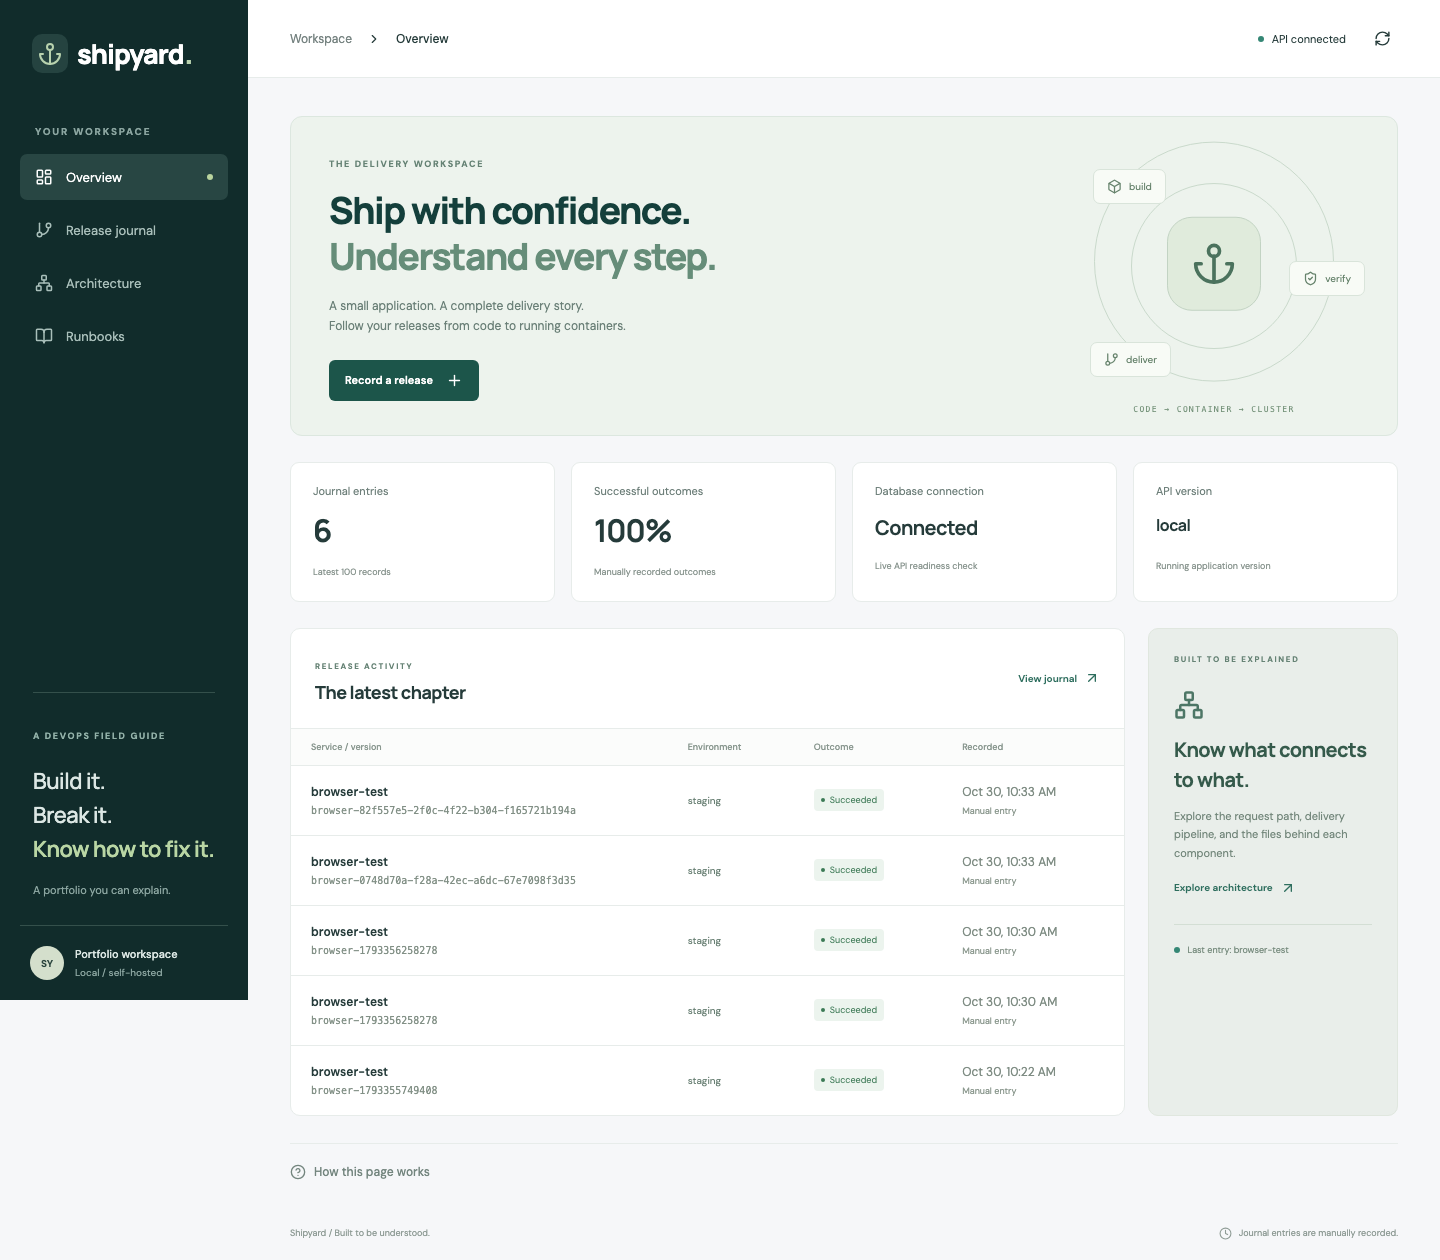
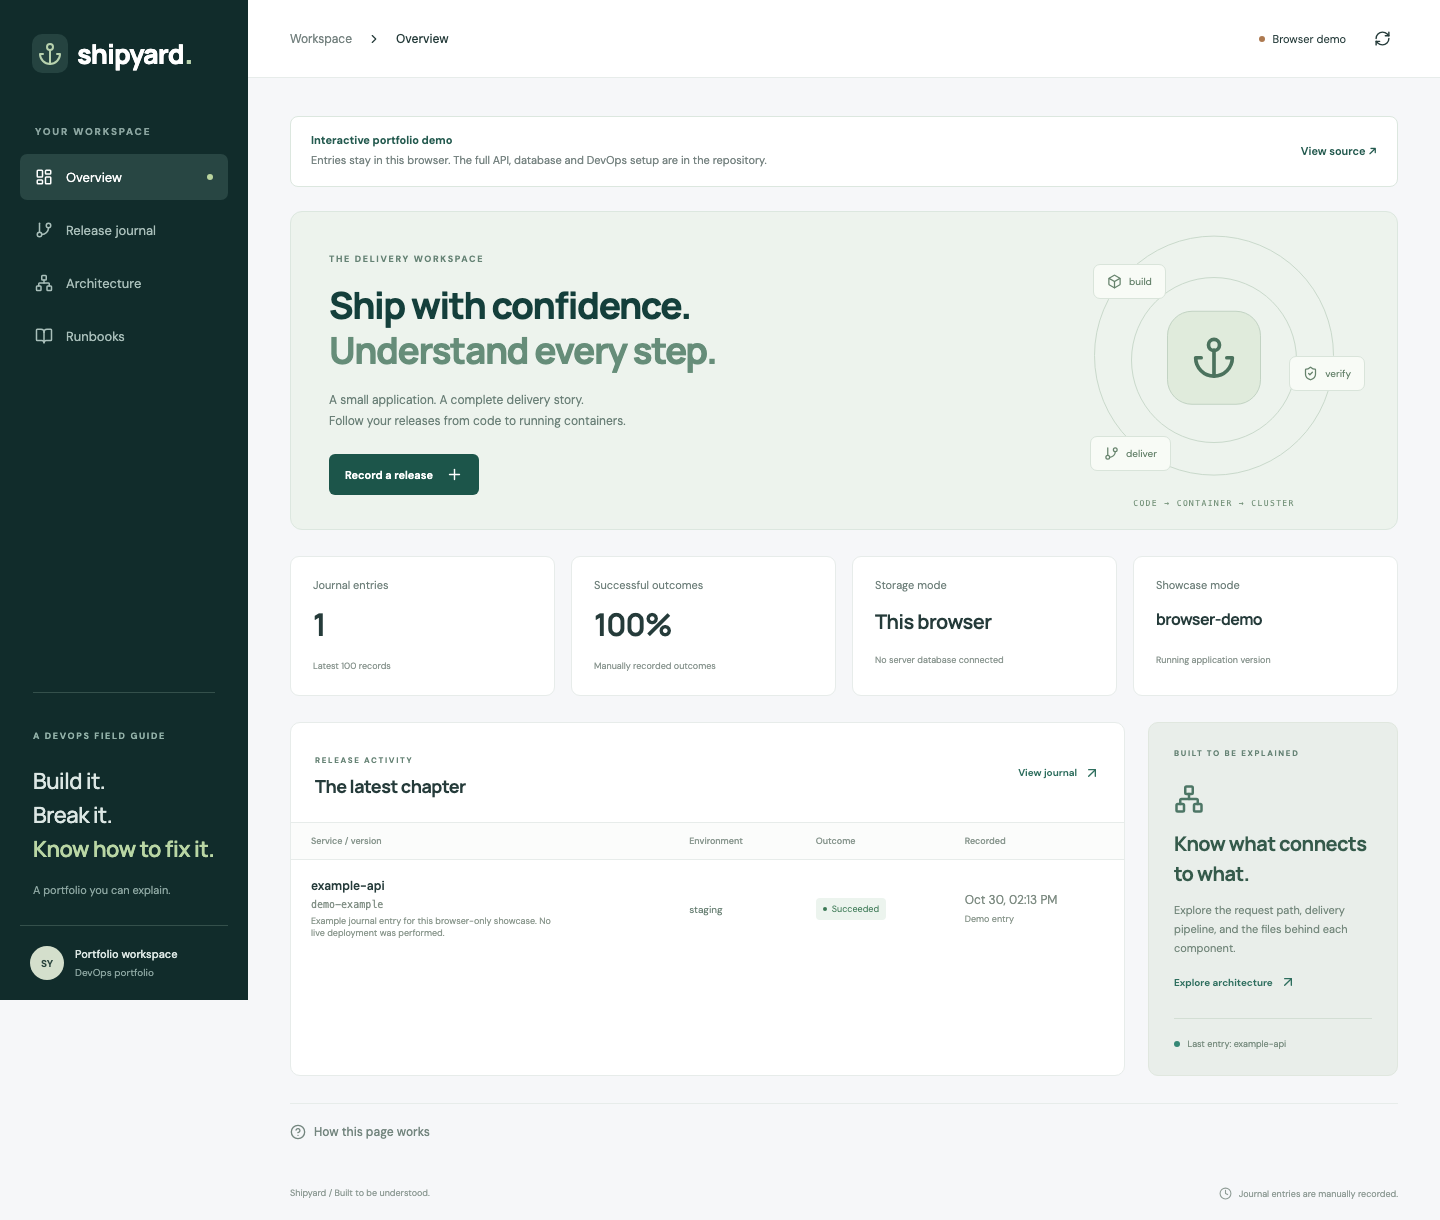
Prepare portfolio screenshots, sharing preview and LinkedIn guide

diff --git a/apps/web/index.html b/apps/web/index.html
@@ -7,9 +7,26 @@
     <meta name="theme-color" content="#112c2b" />
     <meta
       name="description"
-      content="Shipyard: an explained DevSecOps release journal and delivery platform."
+      content="Explore Shipyard: an interactive DevSecOps portfolio with a tested full-stack application, Docker, CI, infrastructure code and explained architecture."
     />
-    <title>Shipyard · Release journal</title>
+    <!-- Social previews point to the free public showcase; no private application data is embedded. -->
+    <meta property="og:type" content="website" />
+    <meta property="og:title" content="Shipyard · DevSecOps Portfolio" />
+    <meta
+      property="og:description"
+      content="Try the free interactive showcase and explore the tested React, Express, MongoDB and DevOps source."
+    />
+    <meta
+      property="og:url"
+      content="https://khyzerriaz24.github.io/shipyard-devsecops/"
+    />
+    <meta
+      property="og:image"
+      content="https://khyzerriaz24.github.io/shipyard-devsecops/og.png"
+    />
+    <meta name="twitter:card" content="summary_large_image" />
+    <link rel="icon" type="image/svg+xml" href="/favicon.svg" />
+    <title>Shipyard · DevSecOps Portfolio</title>
   </head>
   <body>
     <div id="root"></div>

diff --git a/apps/web/src/App.jsx b/apps/web/src/App.jsx
@@ -1,4 +1,5 @@
 /** App shell. Four navigable pages share the same live API data.
+ * useWorkspace.js loads data; mode.js selects the real API or the labelled free demo.
  * Overview -> release journal -> POST /api/releases -> app.js -> store.js -> MongoDB.
  * Architecture and Runbooks explain the corresponding infrastructure/docs; they aren't live cloud status.
  */

diff --git a/docs/verification.md b/docs/verification.md
@@ -34,3 +34,19 @@ The following need your account/repository configuration and live environments:
 - Off-cluster scheduled backups, production restore cutover and database high availability. The database has one member.
 
 No software can be promised to have zero bugs. This record identifies the checks that passed, their scope, and the remaining environment-dependent verification.
+
+## Refactor and free showcase — 30 October 2026
+
+The application shell now selects pages from one navigation definition. `useWorkspace.js` owns data loading and ignores stale refresh responses. `telemetry.js` owns request measurement/logging, so API routes remain readable. Purpose and connection comments remain present in the authored source.
+
+The free GitHub Pages build uses an explicit browser-storage adapter, with a visible demo banner and storage labels. It does not report a fake database connection or require an API token. The normal Docker build continues to use the real Express/MongoDB path.
+
+Local verification after these changes passed 20 API/database/UI/demo tests, two real-application browser tests, and two static-demo browser tests. Both production modes built successfully. The live GitHub Actions checks also passed on Linux, including real temporary MongoDB integration, Terraform validation, Kubernetes rendering, dependency audit and the demo browser checks.
+
+The public repository and workflow are available at:
+
+- Source: https://github.com/KhyzerRiaz24/shipyard-devsecops
+- Initial live checks: https://github.com/KhyzerRiaz24/shipyard-devsecops/actions/runs/41069816255
+- Workflow: https://github.com/KhyzerRiaz24/shipyard-devsecops/actions/workflows/check-and-deploy.yml
+
+The selected public hosting uses GitHub Pages and standard public-repository runners. No paid AWS resources were created. AWS/Jenkins/SonarQube deployment remains outside the verified live showcase scope.

diff --git a/docs/linkedin.md b/docs/linkedin.md
@@ -1,0 +1,26 @@
+# LinkedIn project entry
+
+**Project name:** Shipyard — DevSecOps portfolio
+
+**Project URL:** https://khyzerriaz24.github.io/shipyard-devsecops/
+
+**Source:** https://github.com/KhyzerRiaz24/shipyard-devsecops
+
+## Suggested description
+
+Built and tested a containerised release journal using React, Express and MongoDB, with authenticated writes, health checks, metrics, backup restoration and documented failure exercises. Added GitHub Actions checks and a free interactive showcase. The repository also includes Terraform, Kubernetes, Argo CD, Jenkins and monitoring configuration for a future AWS deployment.
+
+The public showcase uses browser-local demo records. The real API/database application runs through Docker Compose; the public site is not a live AWS or Kubernetes deployment.
+
+## Suggested post
+
+I've published Shipyard, a DevSecOps portfolio project built to make the delivery process easy to explain.
+
+The project includes a tested React/Express/MongoDB application, Docker containers, authenticated API writes, health checks, metrics and backup/recovery runbooks. GitHub Actions checks the code before publishing the free interactive demo.
+
+I also documented the Terraform, Kubernetes, GitOps and Jenkins setup, including the tradeoffs and what still needs a live AWS environment to verify.
+
+Try the demo: https://khyzerriaz24.github.io/shipyard-devsecops/
+Explore the code: https://github.com/KhyzerRiaz24/shipyard-devsecops
+
+#DevOps #Docker #CICD #CloudEngineering

diff --git a/docs/file-guide.md b/docs/file-guide.md
@@ -4,6 +4,7 @@ Every authored source/configuration file starts with a purpose comment when its 
 
 ## Application
 
+- `apps/web/public/favicon.svg`, `og.png`: browser icon and public social-sharing preview.
 - `apps/web/index.html`: HTML entry; loads `src/main.jsx`.
 - `apps/web/src/main.jsx`: mounts React and imports `styles.css`.
 - `apps/web/src/App.jsx`: navigation, shared data loading, error states and modal ownership. Imports the four pages below.
@@ -87,3 +88,5 @@ Every authored source/configuration file starts with a purpose comment when its 
 ## Documentation
 
 The root README is the starting point. The other guides cover architecture, development, Jenkins, AWS deployment, operations, portfolio evidence and actual verification. File paths in explanations are repository-relative, so you can find them in any clone.
+
+The LinkedIn project description and post draft are in `docs/linkedin.md`.

diff --git a/docs/portfolio.md b/docs/portfolio.md
@@ -2,6 +2,8 @@
 
 The value of this project comes from explaining its decisions and showing observed behaviour. Be precise about which parts ran locally and which ran in AWS.
 
+For the ready-to-copy project entry and post draft, see [LinkedIn wording](linkedin.md).
+
 ## A short demonstration
 
 1. Open the four pages and explain how React reaches Express through Nginx.
